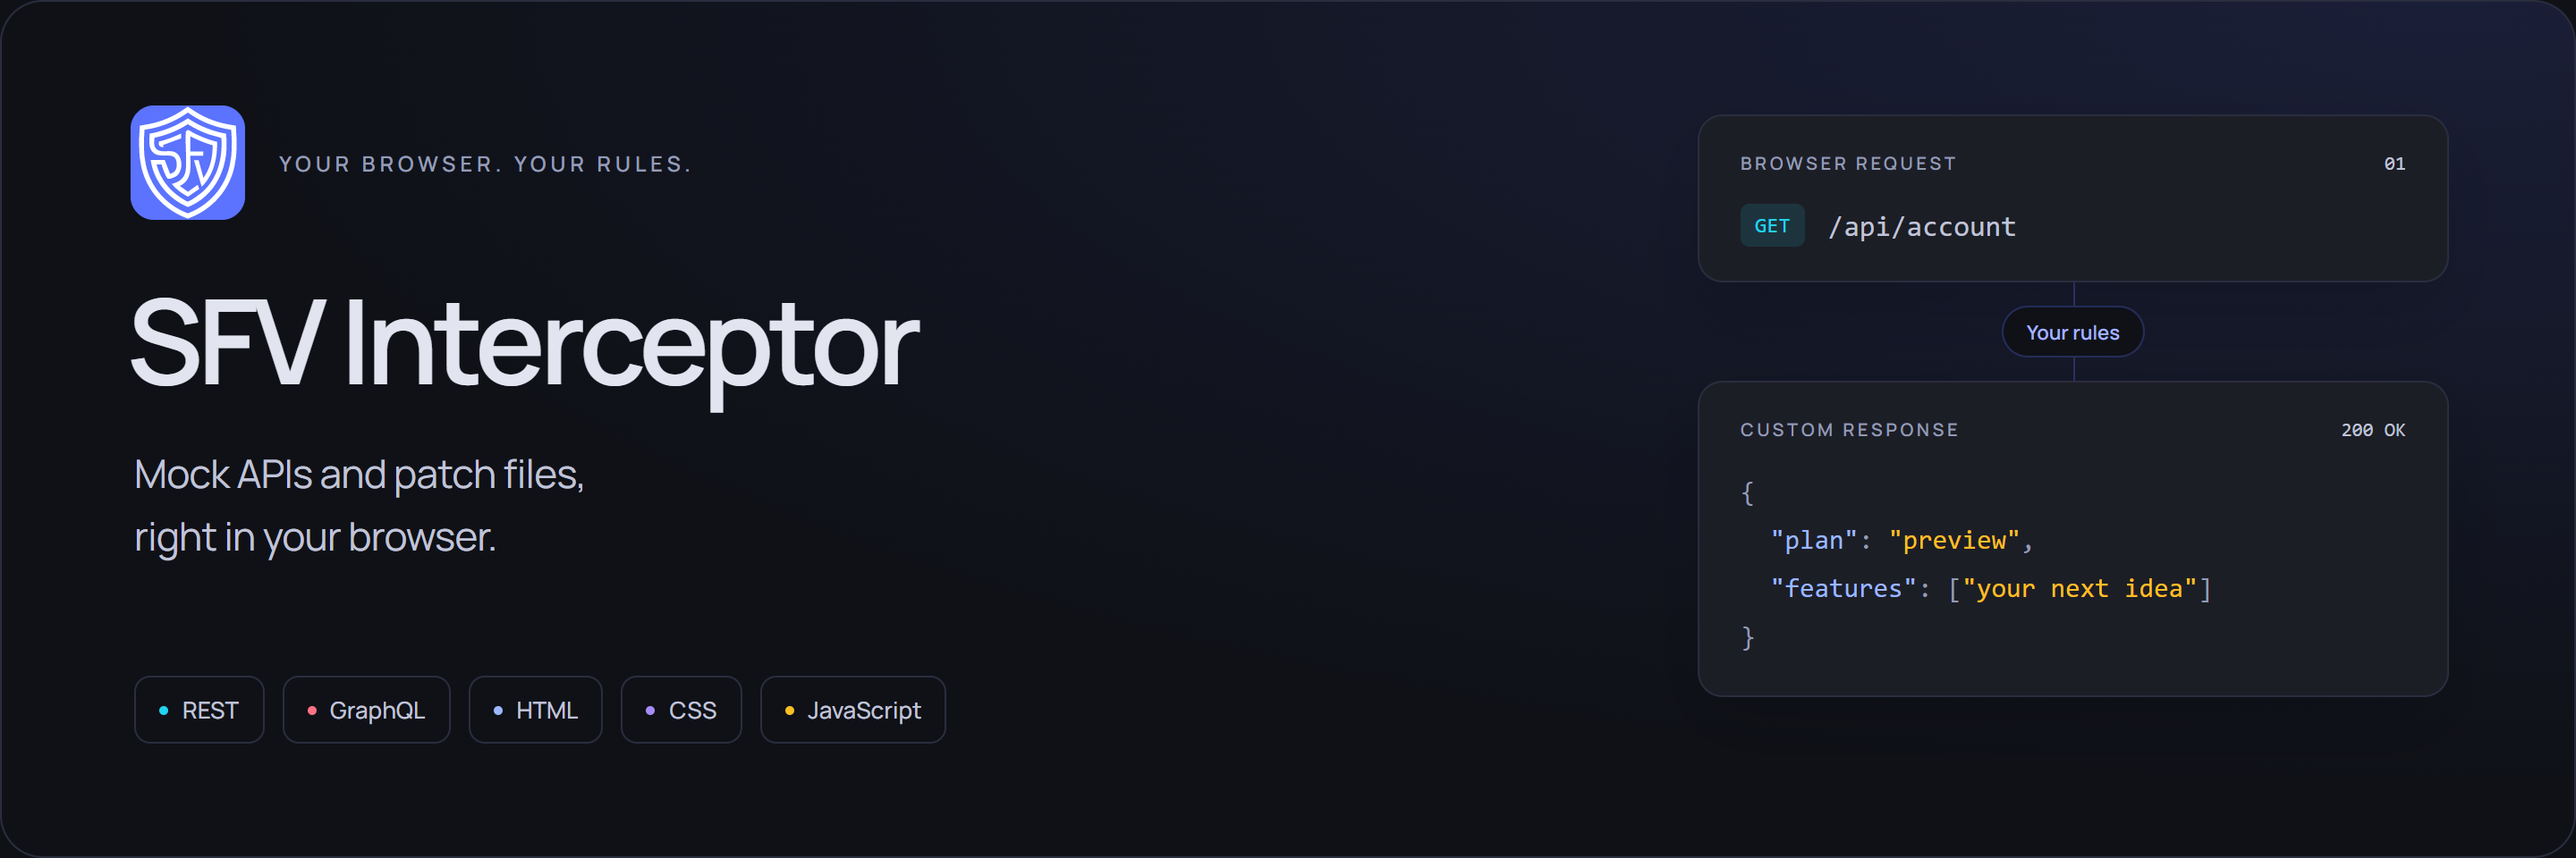
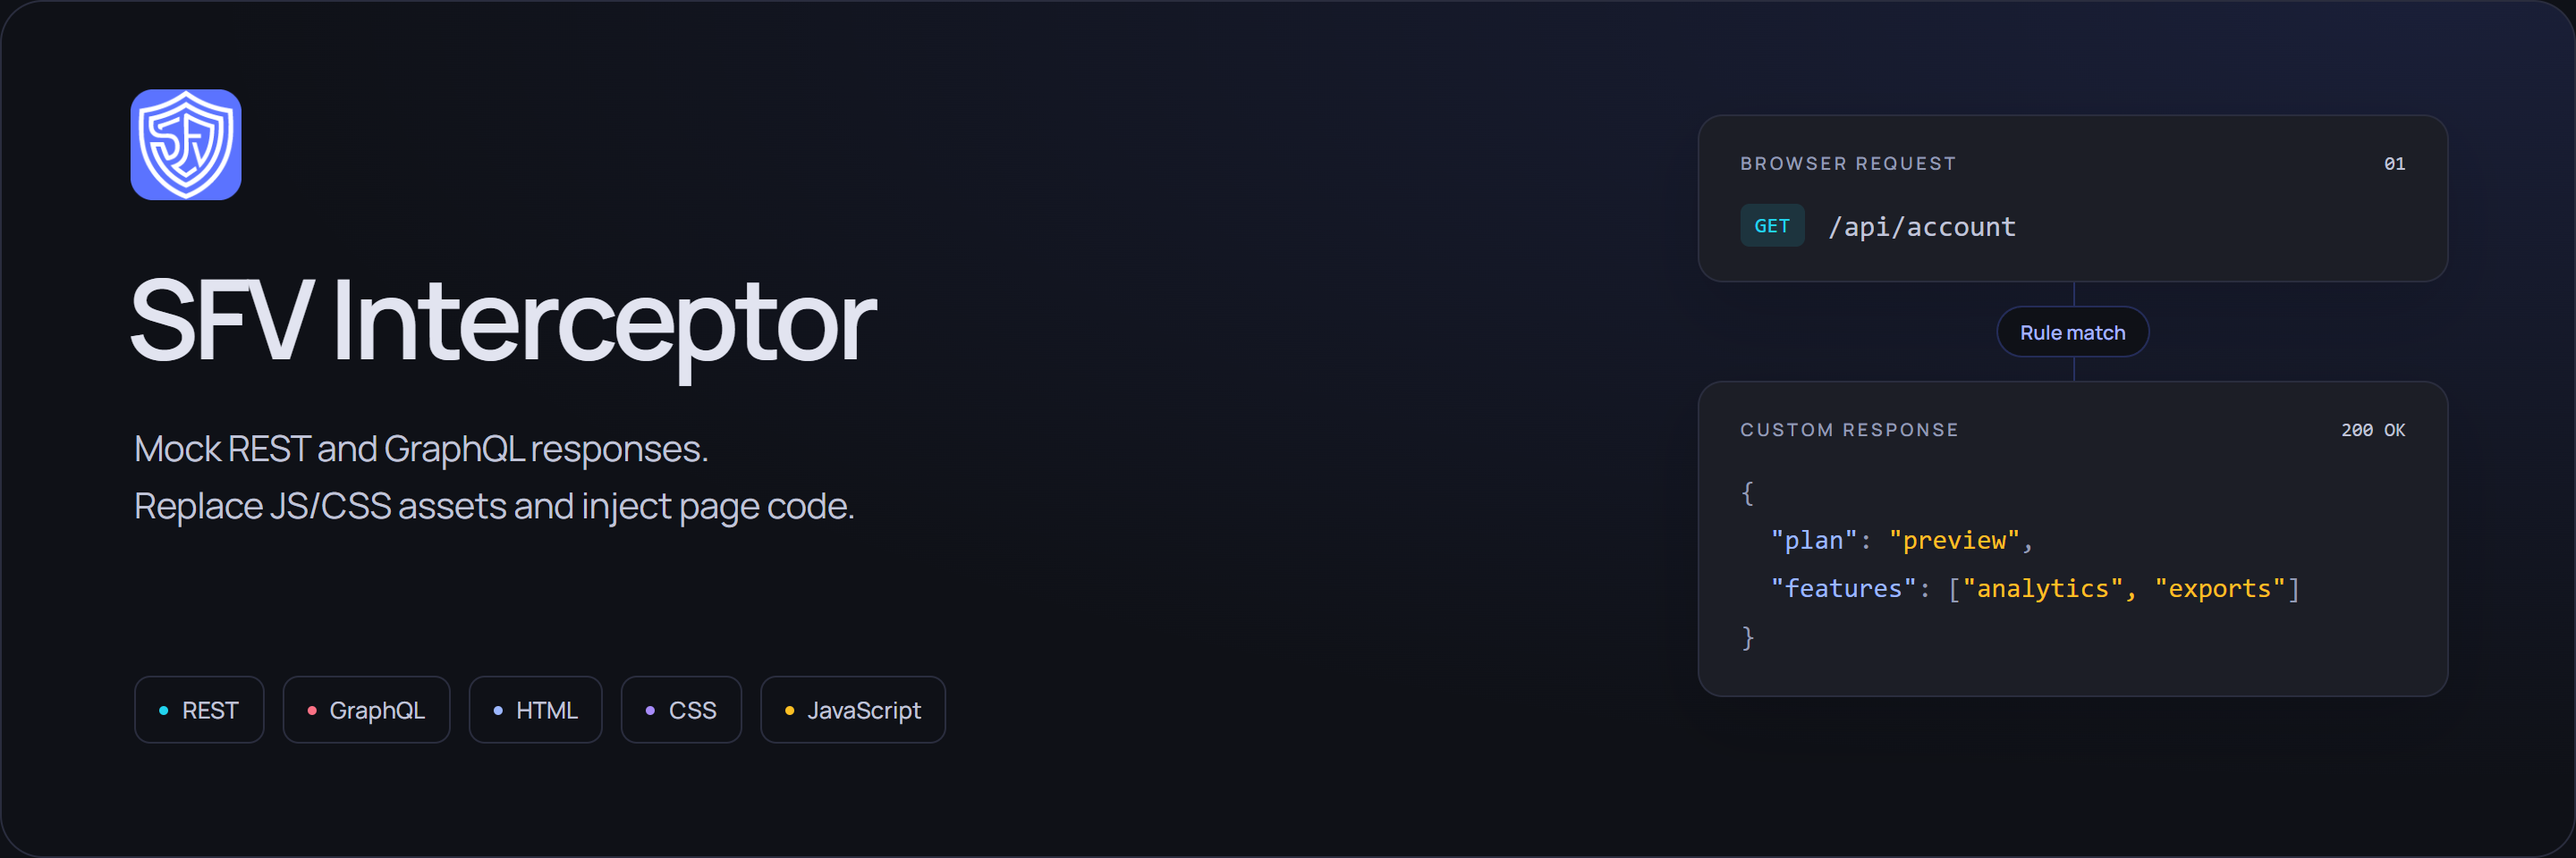
docs: prepare repository for public users

diff --git a/tests/matcher.test.js b/tests/matcher.test.js
@@ -12,13 +12,13 @@ test('literal operators escape asterisks and regex punctuation before creating f
 });
 
 test('wildcard file blockers and runtime matching agree on full URLs and literal punctuation', () => {
-  const pair={urlPattern:'https://example.com/assets/*.js?build=1',urlOperator:'Wildcard'};
+  const pair={urlPattern:'https://events.example.test/assets/*.js?build=1',urlOperator:'Wildcard'};
   const expression=new RegExp(pairToRegexFilter(pair),'i');
   for (const [url,expected] of [
-    ['https://example.com/assets/checkout.bundle.js.js?build=1',true],
-    ['https://exampleXcom/assets/checkout.bundle.js.js?build=1',false],
-    ['https://example.com/assets/checkout.bundle.js.js?build=10',false],
-    ['https://other.test/https://example.com/assets/file.js?build=1',false],
+    ['https://events.example.test/assets/checkout.bundle.js?build=1',true],
+    ['https://eventsXexample.test/assets/checkout.bundle.js?build=1',false],
+    ['https://events.example.test/assets/checkout.bundle.js?build=10',false],
+    ['https://other.test/https://events.example.test/assets/file.js?build=1',false],
   ]) {
     assert.equal(expression.test(url),expected,url);
     assert.equal(urlMatchesPair(url,pair),expected,url);

diff --git a/README.md b/README.md
@@ -1,128 +1,52 @@
-![SFV Interceptor — mock APIs and patch files in your browser](docs/assets/readme-cover.png)
+![SFV Interceptor cover artwork](docs/assets/readme-cover.png)
 
 # SFV Interceptor
 
-Intercept, mock, and modify HTTP requests in real time — directly in Chrome, no account, no proxy, no server required.
+A Chrome extension for mocking REST and GraphQL responses, replacing JS and CSS files, and injecting page code.
 
----
+[Download the latest release](https://github.com/thomrnowtea/sfv-interceptor/releases/latest) · [Installation](#installation) · [MIT License](LICENSE)
 
-## Overview
+## Screenshots
 
-SFV Interceptor is a Manifest V3 Chrome extension that lets developers intercept REST and GraphQL API calls, patch JS and CSS files, and inject code into pages — all from the browser. API rule changes are pushed to open tabs; file replacements and page injections run on subsequent navigation. It is designed for frontend developers who need to mock APIs, test edge cases, or patch third-party scripts during development.
+![Dashboard with rule lists and the dynamic response editor](docs/assets/readme-dashboard.png)
 
----
-
-## Interface
-
-The dashboard brings local rules, remote subscriptions, matching, and code editing into one workspace. The popup provides activation switches and quick access to the dashboard.
-
-![Dashboard in the default dark theme, showing local and remote rules and a dynamic JavaScript response](docs/assets/readme-dashboard.png)
-
-<p align="center">
-  <img src="docs/assets/readme-popup.png" width="360" alt="Popup with rule versions, activation switches, and a read-only remote rule">
-</p>
-
-The captures use sample rules. The extension starts with an empty workspace.
-
----
+![Chrome with the SFV Interceptor popup open on a dark page](docs/assets/readme-popup.png)
 
 ## Features
 
-### API Mocking
-- Intercept `fetch` and `XMLHttpRequest` calls for REST and GraphQL endpoints
-- Static responses — return a fixed body; the real request still appears in DevTools
-- Dynamic responses — write a `modifyResponse(ctx)` JS function to transform the real response
-- GraphQL operation name filter — target specific queries or mutations
-- HTTP method filter — restrict a rule to `GET`, `POST`, `PUT`, `DELETE`, etc.
-- Custom status code and simulated response delay (ms)
-- Custom request headers injected per rule
-
-### File Patching
-- Replace or modify JS and CSS files before the page executes them
-- Inject arbitrary JS or HTML directly into a page at load time
-- Uses `declarativeNetRequest` to block the original file and serve the patched version
-
-### Rule Management
-- Multiple URL patterns per rule, sharing its response configuration
-- URL match operators: `Contains`, `Equals`, `Wildcard`, `Regex`
-- Enable/disable toggles for local and remote rules; remote activation is a persistent local preference
-- Drag-to-reorder rules with custom sort order
-- Sort rules by name or resource type
-- Bulk select and export; bulk deletion applies to local rules
-- Import/export rules as JSON — standard format
-- Import from a local file or a remote URL
-- One-time imports create editable local copies; remote subscriptions are a separate workflow
-- Read-only remote sources with configurable background synchronization and manual refresh
-- Per-rule versions: editable locally, published by the JSON source for remote rules
-
-### Editor & UI
-- CodeMirror editor with JavaScript syntax highlighting for dynamic responses
-- Prettier formatting for JavaScript, JSON, HTML, and CSS, with keyboard support and CodeMirror undo
-- Security analysis warns on dangerous code patterns before saving
-- Custom themes — built-in dark/light presets plus a fully custom color picker
-- Popup: search, Active / All Rules tabs, per-rule toggle and a New rule shortcut to the dashboard
-- Dashboard: sidebar rule list + full rule editor panel
-- Manrope bundled locally, original dark palette and light/custom themes
-- Compact popup with a single scrolling list; dedicated rule browser on narrow screens
-- Accessible native dialogs, keyboard navigation, and reduced-motion feedback
-- Origin filters and visible source/version information for remote rules
-
----
-
-## How It Works
-
-When a page loads, `content.js` runs in the isolated world at `document_start` and asks the service worker for any enabled API rules. If rules exist, it injects `page-hook.js` into the page's MAIN world via `chrome.scripting.executeScript`, where it captures the native `fetch` and `XMLHttpRequest` before any page script runs. When a request URL matches a rule, the hook returns the configured static body or passes the real response through the user-defined `modifyResponse` function. For JS and CSS file patching, the service worker uses `declarativeNetRequest` to block the original file on navigation and re-executes a patched version directly in the MAIN world. Saving or toggling a local rule, or syncing a remote source, pushes updated API configuration to open tabs. Reload a page to apply changed file replacements or page injections.
-
----
+- **API mocking:** intercept `fetch` and `XMLHttpRequest`; match REST or GraphQL requests by URL, method, and operation; return static responses or transform them with JavaScript.
+- **Page and asset rules:** inject JavaScript or HTML, and replace JavaScript or CSS files on navigation.
+- **Rule management:** create, edit, version, search, sort, and export local rules. Import a JSON file or make a one-time import from an HTTPS URL.
+- **Subscriptions:** follow any HTTPS URL that responds with a rules array or `{ "rules": [...] }`. Remote rule content and versions follow the source; activation remains a local choice.
+- **Dashboard and popup:** edit rules and settings in the dashboard; use the popup to search and activate rules.
 
 ## Installation
 
-For a release build, download the versioned **sfv-interceptor-vX.Y.Z.zip** asset from [GitHub Releases](https://github.com/thomrnowtea/sfv-interceptor/releases), then load it as an unpacked extension:
+1. Download the versioned `sfv-interceptor-vX.Y.Z.zip` from [GitHub Releases](https://github.com/thomrnowtea/sfv-interceptor/releases).
+2. Extract the ZIP to a permanent folder.
+3. In Chrome, open `chrome://extensions` and turn on **Developer mode**.
+4. Select **Load unpacked** and choose the extracted folder containing `manifest.json`.
 
-1. Extract the extension ZIP into a permanent folder
-2. Open Chrome and navigate to `chrome://extensions`
-3. Enable **Developer mode** using the toggle in the top-right corner
-4. Click **Load unpacked**
-5. Select the extracted folder containing `manifest.json`
+Node.js is not required to use the extension. Reload the extension from `chrome://extensions` after replacing its files to update it.
 
-The SFV Interceptor icon will appear in the Chrome toolbar.
+## Quick start
 
-No Node installation or build is needed. For updates, replace the files in the same folder and reload the installed extension. Developers can also load this repository directly. See [release packaging and publishing](docs/releases.md) for the local ZIP command and automated tag releases.
+Open the popup and choose **New rule**, or open the dashboard. Select a resource type, add URL patterns, configure the response, then save and enable the rule. API changes are sent to open tabs; reload a page to apply JS/CSS replacements or page injections.
 
----
+Use **Import a copy** for editable local rules. Use **Sources** to subscribe to a JSON feed that should stay read-only and update on a schedule. Local rules are editable; remote rules can be activated or deactivated locally.
 
-## How to Use
+Rule documents may be a JSON array or an object with a `rules` array. Subscribed rules need stable IDs. See the [rule schema](docs/rule-schema.md) for the supported fields.
 
-### Using the Popup
+## Permissions and data
 
-1. Click the SFV Interceptor icon in the toolbar to open the popup
-2. Switch between the **Active** and **All Rules** tabs to filter the list
-3. Use the search bar to find a rule by name or URL pattern
-4. Toggle a local or remote rule's switch to enable or disable it instantly
-5. Click **Open dashboard** to edit local rules, inspect remote content, or adjust settings
-6. Click **+ New Rule** to create a rule and open the dashboard editor
+The extension requests access to all sites so it can intercept requests and modify page resources where you use it. Chrome lets you restrict site access in the extension's settings. Rules and preferences are stored with `chrome.storage.local`. Subscriptions fetch only the HTTPS URLs you configure. The project does not operate an account service or a rules server.
 
-### Using the Dashboard
-
-1. Open the dashboard from the popup via **Open dashboard**. Popup rule rows only offer enable/disable switches; the header's **New rule** shortcut opens creation in the dashboard
-2. Click **+ New Rule** in the sidebar to start a new rule
-3. Set a name, select the resource type (REST, GraphQL, JS, CSS, HTML), and enter one or more URL patterns
-4. Choose a response type — **Static** for a fixed body, **Dynamic** to write a `modifyResponse` JS function
-5. Click **Create rule** or **Save changes** — API changes are pushed to open tabs; file changes apply on navigation
-6. To create editable copies, click **Import a copy** and choose a JSON file or import once from a URL
-7. To follow a published collection, open **Sources → Add source**, enter any HTTPS URL whose response is rule JSON, and choose a polling interval in minutes. A `.json` filename is not required; ETag/304 avoids downloading unchanged responses when the server supports it
-8. Edit a local rule's **Version** field as needed. Remote content and versions follow their source JSON; use the popup or sidebar switch to turn each remote rule on or off locally
-
-Remote sources never write into local rule storage. A successful sync reflects additions, changes, and removals in the complete source document. A failed sync keeps the last valid snapshot and displays an error. Unsubscribing removes only that source's remote rules. Background updates use Chrome alarms and may be delayed while the browser or device is asleep.
-
-Each remote rule needs a stable `id`; both `[rules...]` and `{ "rules": [...] }` JSON documents are supported. See the [rule schema](docs/rule-schema.md) for a complete example.
+Dynamic rule code can execute with page access. Only import and enable rules from sources you trust.
 
 ## Development
 
-No particular assistant, editor, or local configuration is required. Run `npm test`, `npm run check`, `npm run test:browser`, and `npm run test:ui` to verify behavior, syntax, and the real extension UI. `npm run test:popup` opens the actual native toolbar popup; `npm run test:formatter` checks Prettier inside the extension. `npm run test:activity` checks the per-page applied indicator and actual interception outcomes. See [development instructions](docs/development.md), the [design guide](docs/design-system.md), and the [QA report](docs/qa.md).
-
----
+The extension loads directly from this repository; it has no build step. For Node-based checks, packaging, and release instructions, see [development](docs/development.md) and [release packaging](docs/releases.md).
 
 ## License
 
-MIT
+[MIT](LICENSE)

diff --git a/docs/rule-activity.md b/docs/rule-activity.md
@@ -44,7 +44,7 @@ Asset execution normalizes omitted `original`/`staticBody` fields to `null`. In 
 
 Page/file executors return success independently of notification readiness. The worker validates and records each completed operation, then ensures the MAIN hook and delivers its notice with the resolved theme. It rechecks the document/configuration snapshot after the hook wait; obsolete successes do not notify a successor page or changed configuration. Each asset application has a bounded, document-local deduplication token. Hook readiness, theme loading and another asset's slow modifier never gate the patch or faster successes. API notices continue through their existing MAIN interception path.
 
-The supplied example site reproduction was tested in visible Chromium with the three rules from the user's external `sample-rules.json`. Before the fix, the bundle was blocked and replacement failed with `Cannot read properties of undefined (reading 'match')`, followed by missing `jQuery`/`require`. Afterward, the first load, five warm reloads, and three reloads with browser and extension asset caches cleared each showed the patched v5 marker, a running app, and the visible purchase button, without page exceptions. The original bundle stayed blocked in every checked run; an inactive extension allowing the original bundle was excluded as evidence. These are site-specific observations, not an ordering guarantee for all pages.
+Regression validation uses synthetic fixtures in isolated Chromium; user-provided sites and rules are not part of the public repository.
 
 This is best effort, not a parser-order guarantee. Chrome documents that `scripting.executeScript({ injectImmediately: true })` can still run after the page loads, and DNR supports blocking/redirecting requests rather than replacing response bodies. The browser probe records whether a parser-adjacent script observed the replacement; recent local runs placed it 5–11 ms after an immediate inline boundary, and the external boundary in the CSP fallback fixture varied from 6 ms before to 5 ms after. Sites that require the replacement before the parser's next statement may still race. See [Chrome scripting timing](https://developer.chrome.com/docs/extensions/reference/api/scripting) and [DNR actions](https://developer.chrome.com/docs/extensions/reference/api/declarativeNetRequest).
 

diff --git a/docs/development.md b/docs/development.md
@@ -54,7 +54,7 @@ All runners own isolated profiles and do not attach to a personal browser. On Wi
 
 ## Bundled font and optional design tooling
 
-`npm run docs:images` regenerates the README cover and two interface captures under `docs/assets/`. It renders the original logo, bundled Manrope and exact default theme tokens, then captures the actual packaged dashboard/popup in an isolated profile with synthetic `example.com` rules. The cover is static HTML/CSS; CDP verifies the rendered heading uses the custom Manrope face. Supporting measurements stay in `.artifacts/readme/`. Documentation images and the generator remain outside the extension ZIP.
+`npm run docs:images` regenerates the README cover and dashboard capture under `docs/assets/`, using the original logo, bundled Manrope, default theme tokens, and synthetic rules. `npm run docs:popup` opens a visible, isolated Chromium window on `https://example.com` with a local example page, synthetic rules, and the native extension popup open. Capture the whole browser window with an OS screenshot tool and save it as `docs/assets/readme-popup.png`. Neither command uses a personal browser profile or rule data. Supporting measurements stay in `.artifacts/readme/`; documentation images and generators remain outside the extension ZIP.
 
 The Latin Manrope asset comes from `@fontsource-variable/manrope`, with its SIL OFL license retained. Update the checked-in WOFF2 and license together when updating the package. The extension loads its assets locally and has no runtime dependency on Fontsource or a font CDN.
 

diff --git a/docs/qa.md b/docs/qa.md
@@ -1,0 +1,26 @@
+# Quality checks
+
+The project has Node-based unit tests, syntax and manifest checks, release-package verification, and optional Chromium browser suites. Browser suites use isolated profiles and synthetic fixtures; they do not require accounts, private rules, or access to a personal browser session.
+
+Run the core checks with:
+
+```sh
+npm test
+npm run check
+npm run package
+npm run test:release
+```
+
+The browser suites cover the dashboard, popup, responsive layouts, keyboard behavior, themes, accessibility scans, response formatting, subscriptions, and page activity:
+
+```sh
+npm run test:browser
+npm run test:ui
+npm run test:popup
+npm run test:formatter
+npm run test:activity
+npm run test:toasts
+npm run test:compact
+```
+
+Browser checks require the development dependencies and a local Playwright Chromium installation. See [development setup](development.md) for details. Automated accessibility scans help catch regressions but do not replace manual assistive-technology testing.
